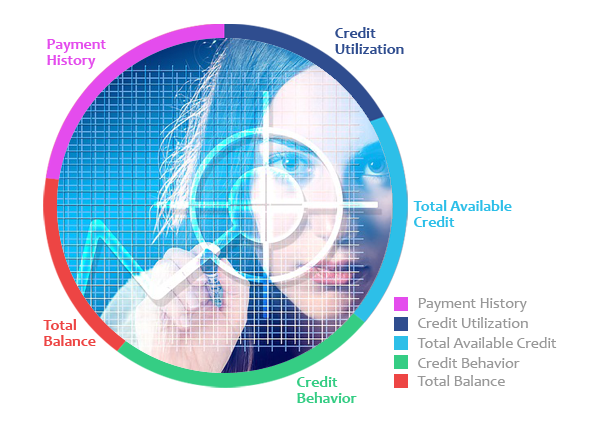
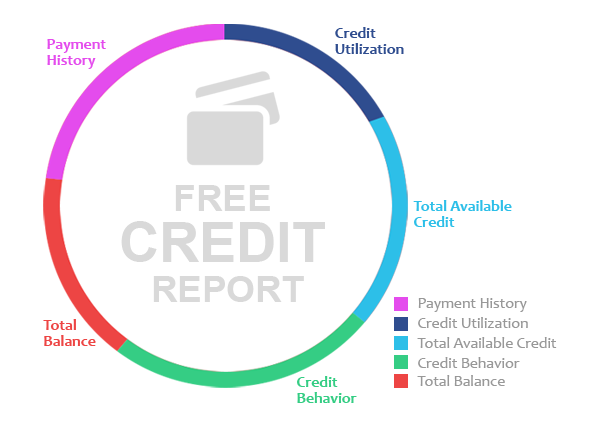
Changes in Style, Credit Report, Disclamer

Changed region(s): [[0.09, 0.0915, 0.66, 0.885]]

diff --git a/public/css/style.css b/public/css/style.css
@@ -1877,7 +1877,7 @@ body {background:#eee;}
 .error-actions .btn { margin-right:10px; }
 .outer-brd {border:5px solid #ebedf0;}
 .gray-bg {background:#ddd;}
-.apply-btn {color:#fff;background: #3699c1; padding: 10px; margin-top:3px;}
+.apply-btn {color:#fff;background: #3699c1; padding: 10px; margin:3px; display:block;}
 
 .blue-bg a:hover {color:#fff;}
 .error{
@@ -1919,9 +1919,11 @@ body {background:#eee;}
 .top-lnk .credit-score-btn:hover {background:transparent;}
 
 .model-hig {max-height:450px;overflow:scroll;}
+.crd-rpt {    width: 300px;margin: 0 auto;}
+.credit-report-bg {background: url("../images/Credit-Report_bg.png") no-repeat; padding-bottom:60px;border-bottom:1px solid #eee;}
 
 @media only screen and (max-width:480px) {
 	
-	.tp-margin {font-size:13px; padding:10px 10px;}
+	.tp-margin {font-size:13px; padding:10px 10px;margin-top: 80px;display: block;}
 }
 

diff --git a/resources/views/disclaimer.blade.php b/resources/views/disclaimer.blade.php
@@ -11,11 +11,11 @@
 				<div class="col-md-12">
 					<div class="row pad11 white-bg comp-pg">
 
-			   <p>RupeeBoss intends to provide clear information about loans and insurance products and services. The information and data are generic in nature. Our efforts are to offer accurate and responsible data. We are not responsible for any sort of discrepancies.
-There is no purpose of violating any copyright or intellectual copyrights issue. All information provided on the portal RupeeBoss is subject to the discretion of the same and is likely to change without any notice. Though, any changes in public utility will be communicated immediately in our portal.
-We have tried to maintain high standards in quality, clarity and accuracy of the material posted on the portal. RupeeBoss is not legally responsible for the same in any matter what so ever. Employees, partners and associated staff of RupeeBoss are not accountable for any loss, harm or damage occurring due to usage of information from the portal. Customers are advised to use their own discretion in such matters. It is important to understand that loans and insurance is a subject matter of solicitation and market risks. It is the responsibility of the customer to understand the limitations of loans and insurance policies and the risks involved, we take no liability in such cases.
-Read the subject documents carefully. The information provided on the portal is of financial, loans, insurance and legal purposes. It is a mutual understanding that customers association with the portal will be at the customer's preference and risk.
-Visitors to this website/portal and every third party is hereby informed that the owners of this website/portal, viz., Rupeeboss Financial Services Pvt. Ltd, are not the agents or intermediaries of the loan provider and insurers, whose products are dealt with in this website/portal. They are also not the sub-agents or sub-intermediaries of the agents and intermediaries of the respective loan provider and insurers. Though endeavour is made to make correct policy/product comparisons, quotes, features, etc., based on the information provided by the loan provider and insurers or its agents or intermediaries, it is made abundantly clear that Rupeeboss Financial Services Pvt. Ltd, its directors, shareholders, officers and employees and rupeeboss.com are in no way responsible to or liable for any one for his/her loan and investment, and every prospect/ investor/policyholder shall be solely responsible for the consequences of his/her decision.</p>
+			   <p>RupeeBoss intends to provide clear information about loans and insurance products and services. The information and data are generic in nature. Our efforts are to offer accurate and responsible data. We are not responsible for any sort of discrepancies.</p>
+<p>There is no purpose of violating any copyright or intellectual copyrights issue. All information provided on the portal RupeeBoss is subject to the discretion of the same and is likely to change without any notice. Though, any changes in public utility will be communicated immediately in our portal.</p>
+<p>We have tried to maintain high standards in quality, clarity and accuracy of the material posted on the portal. RupeeBoss is not legally responsible for the same in any matter what so ever. Employees, partners and associated staff of RupeeBoss are not accountable for any loss, harm or damage occurring due to usage of information from the portal. Customers are advised to use their own discretion in such matters. It is important to understand that loans and insurance is a subject matter of solicitation and market risks. It is the responsibility of the customer to understand the limitations of loans and insurance policies and the risks involved, we take no liability in such cases.</p>
+<p>Read the subject documents carefully. The information provided on the portal is of financial, loans, insurance and legal purposes. It is a mutual understanding that customers association with the portal will be at the customer's preference and risk.</p>
+<p>Visitors to this website/portal and every third party is hereby informed that the owners of this website/portal, viz., Rupeeboss Financial Services Pvt. Ltd, are not the agents or intermediaries of the loan provider and insurers, whose products are dealt with in this website/portal. They are also not the sub-agents or sub-intermediaries of the agents and intermediaries of the respective loan provider and insurers. Though endeavour is made to make correct policy/product comparisons, quotes, features, etc., based on the information provided by the loan provider and insurers or its agents or intermediaries, it is made abundantly clear that Rupeeboss Financial Services Pvt. Ltd, its directors, shareholders, officers and employees and rupeeboss.com are in no way responsible to or liable for any one for his/her loan and investment, and every prospect/ investor/policyholder shall be solely responsible for the consequences of his/her decision.</p>
 					</div>
 				</div>
 			</div>

diff --git a/resources/views/index.blade.php b/resources/views/index.blade.php
@@ -182,19 +182,16 @@
 		</div>
 	</div>
 	
-		<div class="container-fluid white-bg">
+		<div class="container-fluid white-bg credit-report-bg">
 			
 			<div class="animate-box">
                     <div class="col-md-1"></div>
 					<div class="col-md-6 animate-box fadeInUp animated">
-						<div class="center-img">
-							<div><img src="images/Credit-Report.png" class="img-responsive" /></div>
-												
-						</div>
+						
 					</div>
 					<div class="col-md-4 padd">
 				
-					<img src="images/Report.png" class="img-responsive hidden-sm pad">
+					<img src="images/Report.png" class="img-responsive hidden-sm pad crd-rpt">
 			
 					<a class="tp-margin" href="{{URL::to('credit-report')}}">Apply For Credit Report</a>
 					</div>
